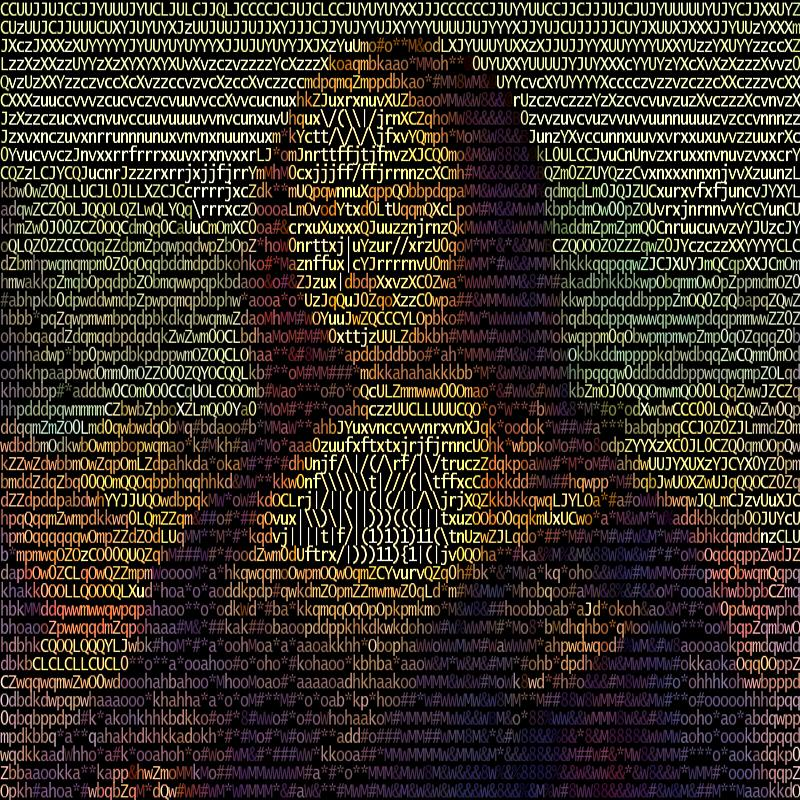
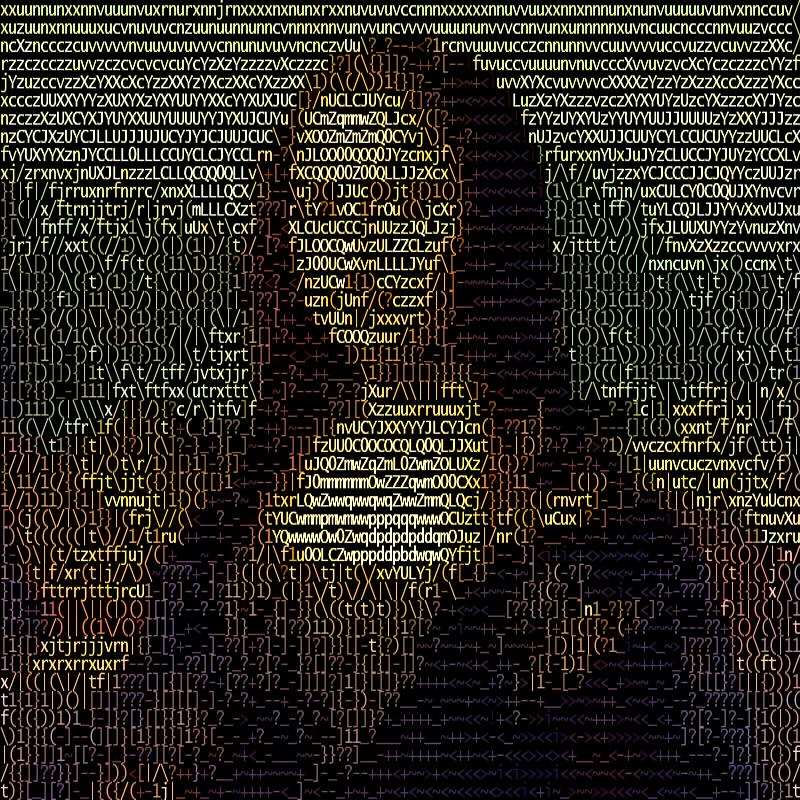
Add files via upload

diff --git a/main.py b/main.py
@@ -116,6 +116,8 @@ d = ImageDraw.Draw(output_image)
 one_char_width = 8
 one_char_height = 18
 
+ascii_znakovi.reverse()
+
 for i in range(new_height_txt):
     for j in range(new_width_txt):
         if ime_slike.endswith(".jpg") or ime_slike.endswith(".jpeg"):
